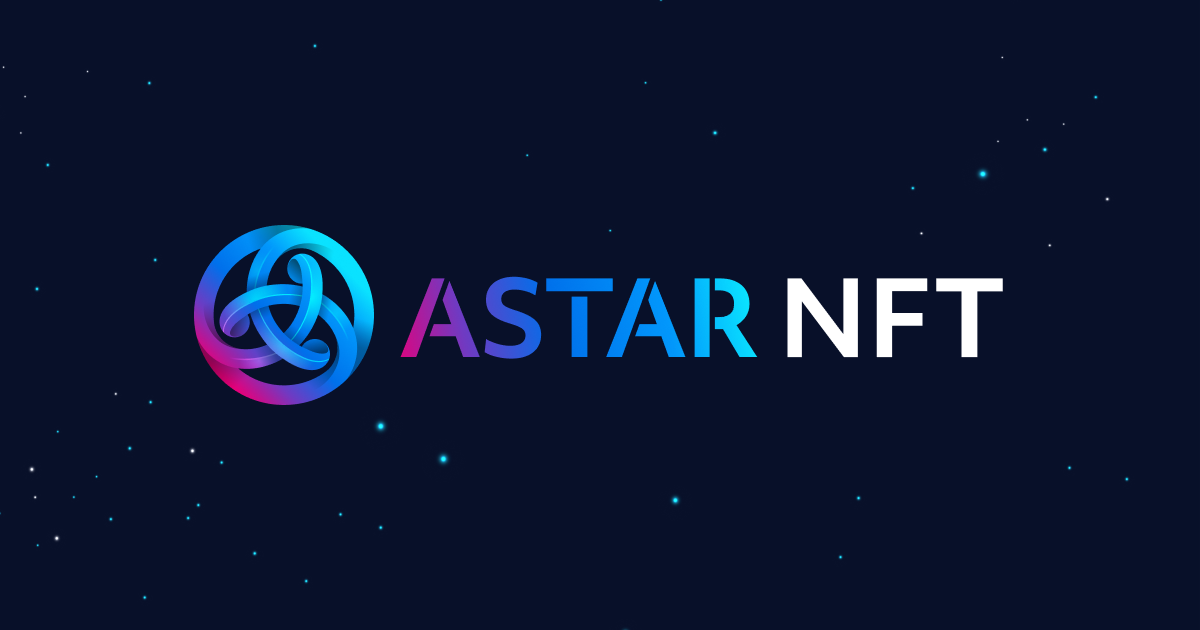
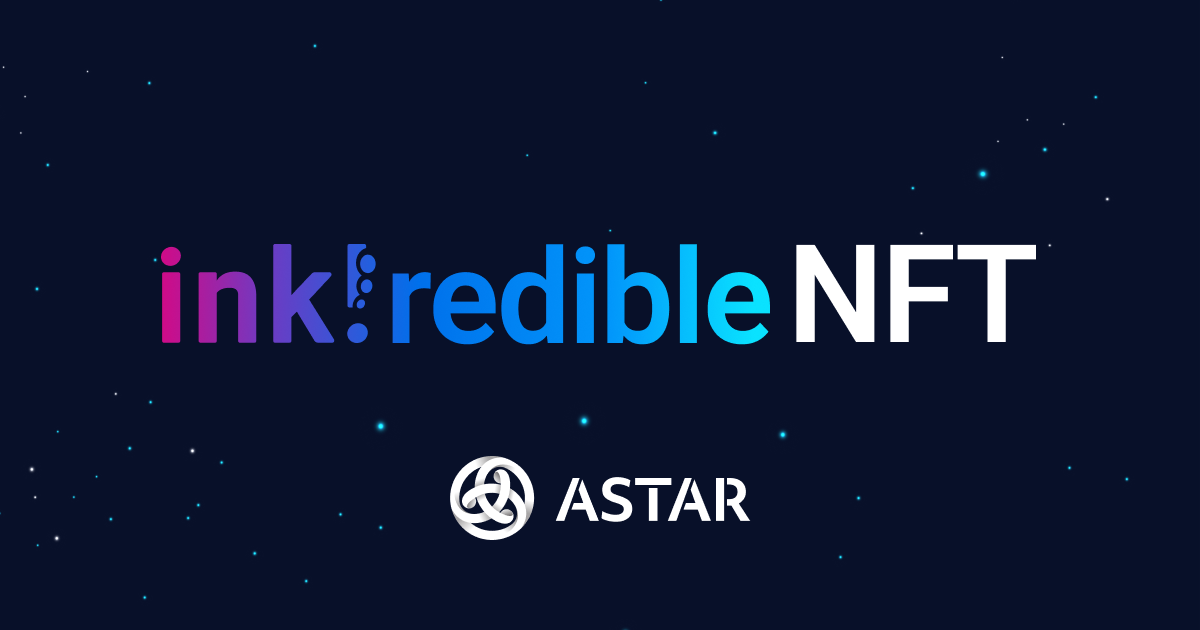
Styling fixes

Changed region(s): [[0.1233, 0.3317, 0.8633, 0.6635], [0.37, 0.7238, 0.6167, 0.8746], [0.4625, 0.6635, 0.4933, 0.6937]]

diff --git a/src/index.template.html b/src/index.template.html
@@ -29,14 +29,14 @@
     <!-- Open Graph Tags -->
     <!-- <meta property="og:title" content="Astar Portal - Astar & Shiden Network" /> -->
     <meta property="og:type" content="website" />
-    <meta property="og:image" content="https://nft.astar.network/images/card-img.png" />
+    <meta property="og:image" content="https://inkredible-nft.astar.network/images/card-img.png" />
     <!-- <meta
       property="og:description"
       content="Your one-stop platform for the Astar ecosystem - Wallet / Staking / Bridging"
     /> -->
     <meta property="og:locale" content="en-US" />
     <meta property="og:site_name" content="Astar NFT viewer" />
-    <!-- <meta property="og:url" content="https://nft.astar.network" /> -->
+    <!-- <meta property="og:url" content="https://inkredible-nft.astar.network" /> -->
 
     <!-- Twitter Cards -->
     <meta name="twitter:card" content="summary_large_image" />
@@ -46,8 +46,8 @@
       name="twitter:description"
       content="Your one-stop platform for the Astar ecosystem - Wallet / Staking / Bridging"
     />
-    <!-- <meta name="twitter:image" content="https://nft.astar.network/images/card-img.png" /> -->
-    <!-- <meta property="twitter:url" content="https://nft.astar.network" /> -->
+    <!-- <meta name="twitter:image" content="https://inkredible-nft.astar.network/images/card-img.png" /> -->
+    <!-- <meta property="twitter:url" content="https://inkredible-nft.astar.network" /> -->
     <meta name="twitter:creator" content="@AstarNetwork" />
 
     <!-- Favicon -->

diff --git a/src/components/common/Footer.vue b/src/components/common/Footer.vue
@@ -18,6 +18,9 @@
           </astar-icon-base>
         </a>
       </div>
+      <a :href="socialUrl.landing" target="_blank" rel="noreferrer">
+        <img src="../../assets/img/footer-logo.svg" alt="footer-logo" class="img--footer" />
+      </a>
     </div>
   </div>
 </template>
@@ -26,7 +29,6 @@ import { socialUrl } from 'src/links';
 import { Path } from 'src/router';
 import { computed, defineComponent } from 'vue';
 import { useRoute } from 'vue-router';
-
 export default defineComponent({
   setup() {
     const route = useRoute();
@@ -34,7 +36,6 @@ export default defineComponent({
       const paths = route.path.split('/');
       return `/${paths[paths.length - 1]}` === Path.Assets;
     });
-
     return { socialUrl, isAssetsPage };
   },
 });

diff --git a/src/components/common/styles/footer.scss b/src/components/common/styles/footer.scss
@@ -12,10 +12,12 @@
   flex-direction: column;
   align-items: center;
   row-gap: 24px;
-}
-
-.img--footer {
-  height: 40px;
+  @media (min-width: $md) {
+    flex-direction: row;
+    justify-content: space-between;
+    align-items: flex-end;
+    width: 100%;
+  }
 }
 
 .box--footer-nft {

diff --git a/src/components/header/Header.vue b/src/components/header/Header.vue
@@ -151,11 +151,9 @@ export default defineComponent({
 }
 
 .app-logo {
-  width: 144px;
-  height: 28px;
+  height: 18px;
   @media (min-width: $md) {
-    width: 204px;
-    height: 40px;
+    height: 20px;
   }
 }
 
